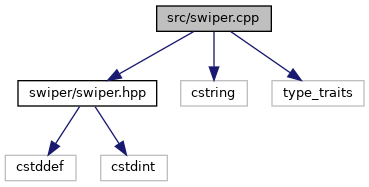
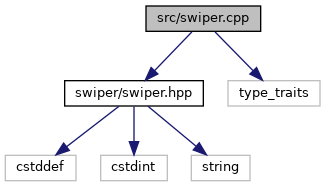
Travis build: 106
Commit: 7fe45ea2c4a1db68935e7285dab35b147c060258

diff --git a/namespaceswiper.html b/namespaceswiper.html
@@ -73,22 +73,22 @@ $(function() {
 <table class="memberdecls">
 <tr class="heading"><td colspan="2"><h2 class="groupheader"><a name="func-members"></a>
 Functions</h2></td></tr>
-<tr class="memitem:a8665843a456e8c5704a5f38d2c628ecd"><td class="memItemLeft" align="right" valign="top">void&#160;</td><td class="memItemRight" valign="bottom"><a class="el" href="namespaceswiper.html#a8665843a456e8c5704a5f38d2c628ecd">Encrypt</a> (char *hash, size_t seed, const char *password) noexcept</td></tr>
-<tr class="memdesc:a8665843a456e8c5704a5f38d2c628ecd"><td class="mdescLeft">&#160;</td><td class="mdescRight">Encrypt produces Cisco IOS^tm type 7 hashes.  <a href="namespaceswiper.html#a8665843a456e8c5704a5f38d2c628ecd">More...</a><br /></td></tr>
-<tr class="separator:a8665843a456e8c5704a5f38d2c628ecd"><td class="memSeparator" colspan="2">&#160;</td></tr>
-<tr class="memitem:a5454b273ec2a80c65d11f67e398ae720"><td class="memItemLeft" align="right" valign="top">void&#160;</td><td class="memItemRight" valign="bottom"><a class="el" href="namespaceswiper.html#a5454b273ec2a80c65d11f67e398ae720">WarmCache</a> (char *password, const char *hash, int32_t n) noexcept</td></tr>
-<tr class="memdesc:a5454b273ec2a80c65d11f67e398ae720"><td class="mdescLeft">&#160;</td><td class="mdescRight">WarmCache accelerates successive <a class="el" href="namespaceswiper.html#a44449e9a1724cda79ba09564c58e259a">Decrypt</a> calls, by prepopulating the system cache.  <a href="namespaceswiper.html#a5454b273ec2a80c65d11f67e398ae720">More...</a><br /></td></tr>
-<tr class="separator:a5454b273ec2a80c65d11f67e398ae720"><td class="memSeparator" colspan="2">&#160;</td></tr>
-<tr class="memitem:a44449e9a1724cda79ba09564c58e259a"><td class="memItemLeft" align="right" valign="top">void&#160;</td><td class="memItemRight" valign="bottom"><a class="el" href="namespaceswiper.html#a44449e9a1724cda79ba09564c58e259a">Decrypt</a> (char *password, const char *hash) noexcept</td></tr>
-<tr class="memdesc:a44449e9a1724cda79ba09564c58e259a"><td class="mdescLeft">&#160;</td><td class="mdescRight">Decrypt reverses Cisco IOS type 7 hashes.  <a href="namespaceswiper.html#a44449e9a1724cda79ba09564c58e259a">More...</a><br /></td></tr>
-<tr class="separator:a44449e9a1724cda79ba09564c58e259a"><td class="memSeparator" colspan="2">&#160;</td></tr>
+<tr class="memitem:aa88ed8959701533f0dd0f4601c127deb"><td class="memItemLeft" align="right" valign="top">void&#160;</td><td class="memItemRight" valign="bottom"><a class="el" href="namespaceswiper.html#aa88ed8959701533f0dd0f4601c127deb">Encrypt</a> (std::string &amp;hash, size_t seed, const std::string &amp;password) noexcept</td></tr>
+<tr class="memdesc:aa88ed8959701533f0dd0f4601c127deb"><td class="mdescLeft">&#160;</td><td class="mdescRight">Encrypt produces Cisco IOS^tm type 7 hashes.  <a href="namespaceswiper.html#aa88ed8959701533f0dd0f4601c127deb">More...</a><br /></td></tr>
+<tr class="separator:aa88ed8959701533f0dd0f4601c127deb"><td class="memSeparator" colspan="2">&#160;</td></tr>
+<tr class="memitem:ae42fee18b8ceeef14c5410f67739b998"><td class="memItemLeft" align="right" valign="top">void&#160;</td><td class="memItemRight" valign="bottom"><a class="el" href="namespaceswiper.html#ae42fee18b8ceeef14c5410f67739b998">WarmCache</a> (std::string &amp;password, const std::string &amp;hash, int32_t n) noexcept</td></tr>
+<tr class="memdesc:ae42fee18b8ceeef14c5410f67739b998"><td class="mdescLeft">&#160;</td><td class="mdescRight">WarmCache accelerates successive <a class="el" href="namespaceswiper.html#a3938a62735238f8bf41714eb02570b98">Decrypt</a> calls, by prepopulating the system cache.  <a href="namespaceswiper.html#ae42fee18b8ceeef14c5410f67739b998">More...</a><br /></td></tr>
+<tr class="separator:ae42fee18b8ceeef14c5410f67739b998"><td class="memSeparator" colspan="2">&#160;</td></tr>
+<tr class="memitem:a3938a62735238f8bf41714eb02570b98"><td class="memItemLeft" align="right" valign="top">void&#160;</td><td class="memItemRight" valign="bottom"><a class="el" href="namespaceswiper.html#a3938a62735238f8bf41714eb02570b98">Decrypt</a> (std::string &amp;password, const std::string &amp;hash) noexcept</td></tr>
+<tr class="memdesc:a3938a62735238f8bf41714eb02570b98"><td class="mdescLeft">&#160;</td><td class="mdescRight">Decrypt reverses Cisco IOS type 7 hashes.  <a href="namespaceswiper.html#a3938a62735238f8bf41714eb02570b98">More...</a><br /></td></tr>
+<tr class="separator:a3938a62735238f8bf41714eb02570b98"><td class="memSeparator" colspan="2">&#160;</td></tr>
 </table>
 <a name="details" id="details"></a><h2 class="groupheader">Detailed Description</h2>
 <div class="textblock"><p>swiper manages legacy Cisco IOS^tm type 7 passwords. </p>
 <dl class="section copyright"><dt>Copyright</dt><dd>2020 YelloSoft </dd></dl>
 </div><h2 class="groupheader">Function Documentation</h2>
-<a id="a44449e9a1724cda79ba09564c58e259a"></a>
-<h2 class="memtitle"><span class="permalink"><a href="#a44449e9a1724cda79ba09564c58e259a">&#9670;&nbsp;</a></span>Decrypt()</h2>
+<a id="a3938a62735238f8bf41714eb02570b98"></a>
+<h2 class="memtitle"><span class="permalink"><a href="#a3938a62735238f8bf41714eb02570b98">&#9670;&nbsp;</a></span>Decrypt()</h2>
 
 <div class="memitem">
 <div class="memproto">
@@ -99,13 +99,13 @@ Functions</h2></td></tr>
         <tr>
           <td class="memname">void swiper::Decrypt </td>
           <td>(</td>
-          <td class="paramtype">char *&#160;</td>
+          <td class="paramtype">std::string &amp;&#160;</td>
           <td class="paramname"><em>password</em>, </td>
         </tr>
         <tr>
           <td class="paramkey"></td>
           <td></td>
-          <td class="paramtype">const char *&#160;</td>
+          <td class="paramtype">const std::string &amp;&#160;</td>
           <td class="paramname"><em>hash</em>&#160;</td>
         </tr>
         <tr>
@@ -123,19 +123,19 @@ Functions</h2></td></tr>
 
 <p>Decrypt reverses Cisco IOS type 7 hashes. </p>
 <p>Hexadecimal data is lowercase.</p>
-<p>Warning: Omits null terminator, to be placed at password[strlen(hash)/2 - 1].</p>
 <dl class="params"><dt>Parameters</dt><dd>
   <table class="params">
-    <tr><td class="paramname">password</td><td>max 11 characters + null terminator </td></tr>
+    <tr><td class="paramname">password</td><td>(hash length / 2 - 1 characters) </td></tr>
     <tr><td class="paramname">hash</td><td>Cisco IOS^tm type 7 (lowercase) </td></tr>
   </table>
   </dd>
 </dl>
+<dl class="section return"><dt>Returns</dt><dd>password </dd></dl>
 
 </div>
 </div>
-<a id="a8665843a456e8c5704a5f38d2c628ecd"></a>
-<h2 class="memtitle"><span class="permalink"><a href="#a8665843a456e8c5704a5f38d2c628ecd">&#9670;&nbsp;</a></span>Encrypt()</h2>
+<a id="aa88ed8959701533f0dd0f4601c127deb"></a>
+<h2 class="memtitle"><span class="permalink"><a href="#aa88ed8959701533f0dd0f4601c127deb">&#9670;&nbsp;</a></span>Encrypt()</h2>
 
 <div class="memitem">
 <div class="memproto">
@@ -146,7 +146,7 @@ Functions</h2></td></tr>
         <tr>
           <td class="memname">void swiper::Encrypt </td>
           <td>(</td>
-          <td class="paramtype">char *&#160;</td>
+          <td class="paramtype">std::string &amp;&#160;</td>
           <td class="paramname"><em>hash</em>, </td>
         </tr>
         <tr>
@@ -158,7 +158,7 @@ Functions</h2></td></tr>
         <tr>
           <td class="paramkey"></td>
           <td></td>
-          <td class="paramtype">const char *&#160;</td>
+          <td class="paramtype">const std::string &amp;&#160;</td>
           <td class="paramname"><em>password</em>&#160;</td>
         </tr>
         <tr>
@@ -176,10 +176,9 @@ Functions</h2></td></tr>
 
 <p>Encrypt produces Cisco IOS^tm type 7 hashes. </p>
 <p>Truncates to the first 11 characters.</p>
-<p>Warning: Omits null terminator, to be placed at hash[2 * (1 + strlen(password))].</p>
 <dl class="params"><dt>Parameters</dt><dd>
   <table class="params">
-    <tr><td class="paramname">hash</td><td>max 24 characters + null terminator </td></tr>
+    <tr><td class="paramname">hash</td><td>buffer (2 * (1 + password length) characters) </td></tr>
     <tr><td class="paramname">seed</td><td>random seed in [0, 16) </td></tr>
     <tr><td class="paramname">password</td><td>plaintext ASCII </td></tr>
   </table>
@@ -188,8 +187,8 @@ Functions</h2></td></tr>
 
 </div>
 </div>
-<a id="a5454b273ec2a80c65d11f67e398ae720"></a>
-<h2 class="memtitle"><span class="permalink"><a href="#a5454b273ec2a80c65d11f67e398ae720">&#9670;&nbsp;</a></span>WarmCache()</h2>
+<a id="ae42fee18b8ceeef14c5410f67739b998"></a>
+<h2 class="memtitle"><span class="permalink"><a href="#ae42fee18b8ceeef14c5410f67739b998">&#9670;&nbsp;</a></span>WarmCache()</h2>
 
 <div class="memitem">
 <div class="memproto">
@@ -200,13 +199,13 @@ Functions</h2></td></tr>
         <tr>
           <td class="memname">void swiper::WarmCache </td>
           <td>(</td>
-          <td class="paramtype">char *&#160;</td>
+          <td class="paramtype">std::string &amp;&#160;</td>
           <td class="paramname"><em>password</em>, </td>
         </tr>
         <tr>
           <td class="paramkey"></td>
           <td></td>
-          <td class="paramtype">const char *&#160;</td>
+          <td class="paramtype">const std::string &amp;&#160;</td>
           <td class="paramname"><em>hash</em>, </td>
         </tr>
         <tr>
@@ -228,10 +227,10 @@ Functions</h2></td></tr>
 </table>
 </div><div class="memdoc">
 
-<p>WarmCache accelerates successive <a class="el" href="namespaceswiper.html#a44449e9a1724cda79ba09564c58e259a">Decrypt</a> calls, by prepopulating the system cache. </p>
+<p>WarmCache accelerates successive <a class="el" href="namespaceswiper.html#a3938a62735238f8bf41714eb02570b98">Decrypt</a> calls, by prepopulating the system cache. </p>
 <dl class="params"><dt>Parameters</dt><dd>
   <table class="params">
-    <tr><td class="paramname">password</td><td>max 11 characters + null terminator </td></tr>
+    <tr><td class="paramname">password</td><td>(hash length / 2 - 1 characters) </td></tr>
     <tr><td class="paramname">hash</td><td>Cisco IOS^tm type 7 </td></tr>
     <tr><td class="paramname">n</td><td>iterations (non-negative) </td></tr>
   </table>

diff --git a/swiper_8hpp_source.html b/swiper_8hpp_source.html
@@ -73,19 +73,20 @@ $(function() {
 <div class="line"><a name="l00002"></a><span class="lineno">    2</span>&#160; </div>
 <div class="line"><a name="l00010"></a><span class="lineno">   10</span>&#160;<span class="preprocessor">#include &lt;cstddef&gt;</span></div>
 <div class="line"><a name="l00011"></a><span class="lineno">   11</span>&#160;<span class="preprocessor">#include &lt;cstdint&gt;</span></div>
-<div class="line"><a name="l00012"></a><span class="lineno">   12</span>&#160; </div>
-<div class="line"><a name="l00016"></a><span class="lineno"><a class="line" href="namespaceswiper.html">   16</a></span>&#160;<span class="keyword">namespace </span><a class="code" href="namespaceswiper.html">swiper</a> {</div>
-<div class="line"><a name="l00028"></a><span class="lineno">   28</span>&#160;    <span class="keywordtype">void</span> <a class="code" href="namespaceswiper.html#a8665843a456e8c5704a5f38d2c628ecd">Encrypt</a>(<span class="keywordtype">char</span> *hash, <span class="keywordtype">size_t</span> seed, <span class="keyword">const</span> <span class="keywordtype">char</span> *password) noexcept;</div>
-<div class="line"><a name="l00029"></a><span class="lineno">   29</span>&#160; </div>
-<div class="line"><a name="l00038"></a><span class="lineno">   38</span>&#160;    <span class="keywordtype">void</span> <a class="code" href="namespaceswiper.html#a5454b273ec2a80c65d11f67e398ae720">WarmCache</a>(<span class="keywordtype">char</span> *password, <span class="keyword">const</span> <span class="keywordtype">char</span> *hash, int32_t n) noexcept;</div>
-<div class="line"><a name="l00039"></a><span class="lineno">   39</span>&#160; </div>
-<div class="line"><a name="l00051"></a><span class="lineno">   51</span>&#160;    <span class="keywordtype">void</span> <a class="code" href="namespaceswiper.html#a44449e9a1724cda79ba09564c58e259a">Decrypt</a>(<span class="keywordtype">char</span> *password, <span class="keyword">const</span> <span class="keywordtype">char</span> *hash) noexcept;</div>
-<div class="line"><a name="l00052"></a><span class="lineno">   52</span>&#160;}</div>
+<div class="line"><a name="l00012"></a><span class="lineno">   12</span>&#160;<span class="preprocessor">#include &lt;string&gt;</span></div>
+<div class="line"><a name="l00013"></a><span class="lineno">   13</span>&#160; </div>
+<div class="line"><a name="l00017"></a><span class="lineno"><a class="line" href="namespaceswiper.html">   17</a></span>&#160;<span class="keyword">namespace </span><a class="code" href="namespaceswiper.html">swiper</a> {</div>
+<div class="line"><a name="l00027"></a><span class="lineno">   27</span>&#160;    <span class="keywordtype">void</span> <a class="code" href="namespaceswiper.html#aa88ed8959701533f0dd0f4601c127deb">Encrypt</a>(std::string&amp; hash, <span class="keywordtype">size_t</span> seed, <span class="keyword">const</span> std::string&amp; password) noexcept;</div>
+<div class="line"><a name="l00028"></a><span class="lineno">   28</span>&#160; </div>
+<div class="line"><a name="l00037"></a><span class="lineno">   37</span>&#160;    <span class="keywordtype">void</span> <a class="code" href="namespaceswiper.html#ae42fee18b8ceeef14c5410f67739b998">WarmCache</a>(std::string&amp; password, <span class="keyword">const</span> std::string&amp; hash, int32_t n) noexcept;</div>
+<div class="line"><a name="l00038"></a><span class="lineno">   38</span>&#160; </div>
+<div class="line"><a name="l00049"></a><span class="lineno">   49</span>&#160;    <span class="keywordtype">void</span> <a class="code" href="namespaceswiper.html#a3938a62735238f8bf41714eb02570b98">Decrypt</a>(std::string&amp; password, <span class="keyword">const</span> std::string&amp; hash) noexcept;</div>
+<div class="line"><a name="l00050"></a><span class="lineno">   50</span>&#160;}</div>
 </div><!-- fragment --></div><!-- contents -->
-<div class="ttc" id="anamespaceswiper_html_a8665843a456e8c5704a5f38d2c628ecd"><div class="ttname"><a href="namespaceswiper.html#a8665843a456e8c5704a5f38d2c628ecd">swiper::Encrypt</a></div><div class="ttdeci">void Encrypt(char *hash, size_t seed, const char *password) noexcept</div><div class="ttdoc">Encrypt produces Cisco IOS^tm type 7 hashes.</div><div class="ttdef"><b>Definition:</b> swiper.cpp:58</div></div>
-<div class="ttc" id="anamespaceswiper_html"><div class="ttname"><a href="namespaceswiper.html">swiper</a></div><div class="ttdoc">swiper manages legacy Cisco IOS^tm type 7 passwords.</div><div class="ttdef"><b>Definition:</b> swiper.hpp:16</div></div>
-<div class="ttc" id="anamespaceswiper_html_a44449e9a1724cda79ba09564c58e259a"><div class="ttname"><a href="namespaceswiper.html#a44449e9a1724cda79ba09564c58e259a">swiper::Decrypt</a></div><div class="ttdeci">void Decrypt(char *password, const char *hash) noexcept</div><div class="ttdoc">Decrypt reverses Cisco IOS type 7 hashes.</div><div class="ttdef"><b>Definition:</b> swiper.cpp:79</div></div>
-<div class="ttc" id="anamespaceswiper_html_a5454b273ec2a80c65d11f67e398ae720"><div class="ttname"><a href="namespaceswiper.html#a5454b273ec2a80c65d11f67e398ae720">swiper::WarmCache</a></div><div class="ttdeci">void WarmCache(char *password, const char *hash, int32_t n) noexcept</div><div class="ttdoc">WarmCache accelerates successive Decrypt calls, by prepopulating the system cache.</div><div class="ttdef"><b>Definition:</b> swiper.cpp:72</div></div>
+<div class="ttc" id="anamespaceswiper_html"><div class="ttname"><a href="namespaceswiper.html">swiper</a></div><div class="ttdoc">swiper manages legacy Cisco IOS^tm type 7 passwords.</div><div class="ttdef"><b>Definition:</b> swiper.hpp:17</div></div>
+<div class="ttc" id="anamespaceswiper_html_a3938a62735238f8bf41714eb02570b98"><div class="ttname"><a href="namespaceswiper.html#a3938a62735238f8bf41714eb02570b98">swiper::Decrypt</a></div><div class="ttdeci">void Decrypt(std::string &amp;password, const std::string &amp;hash) noexcept</div><div class="ttdoc">Decrypt reverses Cisco IOS type 7 hashes.</div><div class="ttdef"><b>Definition:</b> swiper.cpp:79</div></div>
+<div class="ttc" id="anamespaceswiper_html_ae42fee18b8ceeef14c5410f67739b998"><div class="ttname"><a href="namespaceswiper.html#ae42fee18b8ceeef14c5410f67739b998">swiper::WarmCache</a></div><div class="ttdeci">void WarmCache(std::string &amp;password, const std::string &amp;hash, int32_t n) noexcept</div><div class="ttdoc">WarmCache accelerates successive Decrypt calls, by prepopulating the system cache.</div><div class="ttdef"><b>Definition:</b> swiper.cpp:72</div></div>
+<div class="ttc" id="anamespaceswiper_html_aa88ed8959701533f0dd0f4601c127deb"><div class="ttname"><a href="namespaceswiper.html#aa88ed8959701533f0dd0f4601c127deb">swiper::Encrypt</a></div><div class="ttdeci">void Encrypt(std::string &amp;hash, size_t seed, const std::string &amp;password) noexcept</div><div class="ttdoc">Encrypt produces Cisco IOS^tm type 7 hashes.</div><div class="ttdef"><b>Definition:</b> swiper.cpp:57</div></div>
 <!-- start footer part -->
 <hr class="footer"/><address class="footer"><small>
 Generated by &#160;<a href="http://www.doxygen.org/index.html">

diff --git a/swiper_8cpp.html b/swiper_8cpp.html
@@ -73,19 +73,18 @@ $(function() {
 </div><!--header-->
 <div class="contents">
 <div class="textblock"><code>#include &quot;<a class="el" href="swiper_8hpp_source.html">swiper/swiper.hpp</a>&quot;</code><br />
-<code>#include &lt;cstring&gt;</code><br />
 <code>#include &lt;type_traits&gt;</code><br />
 </div><div class="textblock"><div class="dynheader">
 Include dependency graph for swiper.cpp:</div>
 <div class="dyncontent">
 <div class="center"><img src="swiper_8cpp__incl.png" border="0" usemap="#src_2swiper_8cpp" alt=""/></div>
 <map name="src_2swiper_8cpp" id="src_2swiper_8cpp">
-<area shape="rect" title=" " alt="" coords="157,5,271,32"/>
-<area shape="rect" href="swiper_8hpp.html" title=" " alt="" coords="18,80,157,107"/>
-<area shape="rect" title=" " alt="" coords="181,80,247,107"/>
-<area shape="rect" title=" " alt="" coords="272,80,364,107"/>
+<area shape="rect" title=" " alt="" coords="146,5,261,32"/>
+<area shape="rect" href="swiper_8hpp.html" title=" " alt="" coords="65,80,203,107"/>
+<area shape="rect" title=" " alt="" coords="228,80,320,107"/>
 <area shape="rect" title=" " alt="" coords="5,155,76,181"/>
 <area shape="rect" title=" " alt="" coords="101,155,167,181"/>
+<area shape="rect" title=" " alt="" coords="191,155,250,181"/>
 </map>
 </div>
 </div><table class="memberdecls">
@@ -97,15 +96,15 @@ Namespaces</h2></td></tr>
 </table><table class="memberdecls">
 <tr class="heading"><td colspan="2"><h2 class="groupheader"><a name="func-members"></a>
 Functions</h2></td></tr>
-<tr class="memitem:a8665843a456e8c5704a5f38d2c628ecd"><td class="memItemLeft" align="right" valign="top">void&#160;</td><td class="memItemRight" valign="bottom"><a class="el" href="namespaceswiper.html#a8665843a456e8c5704a5f38d2c628ecd">swiper::Encrypt</a> (char *hash, size_t seed, const char *password) noexcept</td></tr>
-<tr class="memdesc:a8665843a456e8c5704a5f38d2c628ecd"><td class="mdescLeft">&#160;</td><td class="mdescRight">Encrypt produces Cisco IOS^tm type 7 hashes.  <a href="namespaceswiper.html#a8665843a456e8c5704a5f38d2c628ecd">More...</a><br /></td></tr>
-<tr class="separator:a8665843a456e8c5704a5f38d2c628ecd"><td class="memSeparator" colspan="2">&#160;</td></tr>
-<tr class="memitem:a5454b273ec2a80c65d11f67e398ae720"><td class="memItemLeft" align="right" valign="top">void&#160;</td><td class="memItemRight" valign="bottom"><a class="el" href="namespaceswiper.html#a5454b273ec2a80c65d11f67e398ae720">swiper::WarmCache</a> (char *password, const char *hash, int32_t n) noexcept</td></tr>
-<tr class="memdesc:a5454b273ec2a80c65d11f67e398ae720"><td class="mdescLeft">&#160;</td><td class="mdescRight">WarmCache accelerates successive <a class="el" href="namespaceswiper.html#a44449e9a1724cda79ba09564c58e259a">Decrypt</a> calls, by prepopulating the system cache.  <a href="namespaceswiper.html#a5454b273ec2a80c65d11f67e398ae720">More...</a><br /></td></tr>
-<tr class="separator:a5454b273ec2a80c65d11f67e398ae720"><td class="memSeparator" colspan="2">&#160;</td></tr>
-<tr class="memitem:a44449e9a1724cda79ba09564c58e259a"><td class="memItemLeft" align="right" valign="top">void&#160;</td><td class="memItemRight" valign="bottom"><a class="el" href="namespaceswiper.html#a44449e9a1724cda79ba09564c58e259a">swiper::Decrypt</a> (char *password, const char *hash) noexcept</td></tr>
-<tr class="memdesc:a44449e9a1724cda79ba09564c58e259a"><td class="mdescLeft">&#160;</td><td class="mdescRight">Decrypt reverses Cisco IOS type 7 hashes.  <a href="namespaceswiper.html#a44449e9a1724cda79ba09564c58e259a">More...</a><br /></td></tr>
-<tr class="separator:a44449e9a1724cda79ba09564c58e259a"><td class="memSeparator" colspan="2">&#160;</td></tr>
+<tr class="memitem:aa88ed8959701533f0dd0f4601c127deb"><td class="memItemLeft" align="right" valign="top">void&#160;</td><td class="memItemRight" valign="bottom"><a class="el" href="namespaceswiper.html#aa88ed8959701533f0dd0f4601c127deb">swiper::Encrypt</a> (std::string &amp;hash, size_t seed, const std::string &amp;password) noexcept</td></tr>
+<tr class="memdesc:aa88ed8959701533f0dd0f4601c127deb"><td class="mdescLeft">&#160;</td><td class="mdescRight">Encrypt produces Cisco IOS^tm type 7 hashes.  <a href="namespaceswiper.html#aa88ed8959701533f0dd0f4601c127deb">More...</a><br /></td></tr>
+<tr class="separator:aa88ed8959701533f0dd0f4601c127deb"><td class="memSeparator" colspan="2">&#160;</td></tr>
+<tr class="memitem:ae42fee18b8ceeef14c5410f67739b998"><td class="memItemLeft" align="right" valign="top">void&#160;</td><td class="memItemRight" valign="bottom"><a class="el" href="namespaceswiper.html#ae42fee18b8ceeef14c5410f67739b998">swiper::WarmCache</a> (std::string &amp;password, const std::string &amp;hash, int32_t n) noexcept</td></tr>
+<tr class="memdesc:ae42fee18b8ceeef14c5410f67739b998"><td class="mdescLeft">&#160;</td><td class="mdescRight">WarmCache accelerates successive <a class="el" href="namespaceswiper.html#a3938a62735238f8bf41714eb02570b98">Decrypt</a> calls, by prepopulating the system cache.  <a href="namespaceswiper.html#ae42fee18b8ceeef14c5410f67739b998">More...</a><br /></td></tr>
+<tr class="separator:ae42fee18b8ceeef14c5410f67739b998"><td class="memSeparator" colspan="2">&#160;</td></tr>
+<tr class="memitem:a3938a62735238f8bf41714eb02570b98"><td class="memItemLeft" align="right" valign="top">void&#160;</td><td class="memItemRight" valign="bottom"><a class="el" href="namespaceswiper.html#a3938a62735238f8bf41714eb02570b98">swiper::Decrypt</a> (std::string &amp;password, const std::string &amp;hash) noexcept</td></tr>
+<tr class="memdesc:a3938a62735238f8bf41714eb02570b98"><td class="mdescLeft">&#160;</td><td class="mdescRight">Decrypt reverses Cisco IOS type 7 hashes.  <a href="namespaceswiper.html#a3938a62735238f8bf41714eb02570b98">More...</a><br /></td></tr>
+<tr class="separator:a3938a62735238f8bf41714eb02570b98"><td class="memSeparator" colspan="2">&#160;</td></tr>
 </table>
 </div><!-- contents -->
 <!-- start footer part -->

diff --git a/swiper_8hpp.html b/swiper_8hpp.html
@@ -74,14 +74,16 @@ $(function() {
 <div class="contents">
 <div class="textblock"><code>#include &lt;cstddef&gt;</code><br />
 <code>#include &lt;cstdint&gt;</code><br />
+<code>#include &lt;string&gt;</code><br />
 </div><div class="textblock"><div class="dynheader">
 Include dependency graph for swiper.hpp:</div>
 <div class="dyncontent">
 <div class="center"><img src="swiper_8hpp__incl.png" border="0" usemap="#include_2swiper_2swiper_8hpp" alt=""/></div>
 <map name="include_2swiper_2swiper_8hpp" id="include_2swiper_2swiper_8hpp">
-<area shape="rect" title=" " alt="" coords="5,5,196,32"/>
-<area shape="rect" title=" " alt="" coords="19,80,89,107"/>
-<area shape="rect" title=" " alt="" coords="114,80,181,107"/>
+<area shape="rect" title=" " alt="" coords="39,5,229,32"/>
+<area shape="rect" title=" " alt="" coords="5,80,76,107"/>
+<area shape="rect" title=" " alt="" coords="101,80,167,107"/>
+<area shape="rect" title=" " alt="" coords="191,80,250,107"/>
 </map>
 </div>
 </div><div class="textblock"><div class="dynheader">
@@ -105,15 +107,15 @@ Namespaces</h2></td></tr>
 </table><table class="memberdecls">
 <tr class="heading"><td colspan="2"><h2 class="groupheader"><a name="func-members"></a>
 Functions</h2></td></tr>
-<tr class="memitem:a8665843a456e8c5704a5f38d2c628ecd"><td class="memItemLeft" align="right" valign="top">void&#160;</td><td class="memItemRight" valign="bottom"><a class="el" href="namespaceswiper.html#a8665843a456e8c5704a5f38d2c628ecd">swiper::Encrypt</a> (char *hash, size_t seed, const char *password) noexcept</td></tr>
-<tr class="memdesc:a8665843a456e8c5704a5f38d2c628ecd"><td class="mdescLeft">&#160;</td><td class="mdescRight">Encrypt produces Cisco IOS^tm type 7 hashes.  <a href="namespaceswiper.html#a8665843a456e8c5704a5f38d2c628ecd">More...</a><br /></td></tr>
-<tr class="separator:a8665843a456e8c5704a5f38d2c628ecd"><td class="memSeparator" colspan="2">&#160;</td></tr>
-<tr class="memitem:a5454b273ec2a80c65d11f67e398ae720"><td class="memItemLeft" align="right" valign="top">void&#160;</td><td class="memItemRight" valign="bottom"><a class="el" href="namespaceswiper.html#a5454b273ec2a80c65d11f67e398ae720">swiper::WarmCache</a> (char *password, const char *hash, int32_t n) noexcept</td></tr>
-<tr class="memdesc:a5454b273ec2a80c65d11f67e398ae720"><td class="mdescLeft">&#160;</td><td class="mdescRight">WarmCache accelerates successive <a class="el" href="namespaceswiper.html#a44449e9a1724cda79ba09564c58e259a">Decrypt</a> calls, by prepopulating the system cache.  <a href="namespaceswiper.html#a5454b273ec2a80c65d11f67e398ae720">More...</a><br /></td></tr>
-<tr class="separator:a5454b273ec2a80c65d11f67e398ae720"><td class="memSeparator" colspan="2">&#160;</td></tr>
-<tr class="memitem:a44449e9a1724cda79ba09564c58e259a"><td class="memItemLeft" align="right" valign="top">void&#160;</td><td class="memItemRight" valign="bottom"><a class="el" href="namespaceswiper.html#a44449e9a1724cda79ba09564c58e259a">swiper::Decrypt</a> (char *password, const char *hash) noexcept</td></tr>
-<tr class="memdesc:a44449e9a1724cda79ba09564c58e259a"><td class="mdescLeft">&#160;</td><td class="mdescRight">Decrypt reverses Cisco IOS type 7 hashes.  <a href="namespaceswiper.html#a44449e9a1724cda79ba09564c58e259a">More...</a><br /></td></tr>
-<tr class="separator:a44449e9a1724cda79ba09564c58e259a"><td class="memSeparator" colspan="2">&#160;</td></tr>
+<tr class="memitem:aa88ed8959701533f0dd0f4601c127deb"><td class="memItemLeft" align="right" valign="top">void&#160;</td><td class="memItemRight" valign="bottom"><a class="el" href="namespaceswiper.html#aa88ed8959701533f0dd0f4601c127deb">swiper::Encrypt</a> (std::string &amp;hash, size_t seed, const std::string &amp;password) noexcept</td></tr>
+<tr class="memdesc:aa88ed8959701533f0dd0f4601c127deb"><td class="mdescLeft">&#160;</td><td class="mdescRight">Encrypt produces Cisco IOS^tm type 7 hashes.  <a href="namespaceswiper.html#aa88ed8959701533f0dd0f4601c127deb">More...</a><br /></td></tr>
+<tr class="separator:aa88ed8959701533f0dd0f4601c127deb"><td class="memSeparator" colspan="2">&#160;</td></tr>
+<tr class="memitem:ae42fee18b8ceeef14c5410f67739b998"><td class="memItemLeft" align="right" valign="top">void&#160;</td><td class="memItemRight" valign="bottom"><a class="el" href="namespaceswiper.html#ae42fee18b8ceeef14c5410f67739b998">swiper::WarmCache</a> (std::string &amp;password, const std::string &amp;hash, int32_t n) noexcept</td></tr>
+<tr class="memdesc:ae42fee18b8ceeef14c5410f67739b998"><td class="mdescLeft">&#160;</td><td class="mdescRight">WarmCache accelerates successive <a class="el" href="namespaceswiper.html#a3938a62735238f8bf41714eb02570b98">Decrypt</a> calls, by prepopulating the system cache.  <a href="namespaceswiper.html#ae42fee18b8ceeef14c5410f67739b998">More...</a><br /></td></tr>
+<tr class="separator:ae42fee18b8ceeef14c5410f67739b998"><td class="memSeparator" colspan="2">&#160;</td></tr>
+<tr class="memitem:a3938a62735238f8bf41714eb02570b98"><td class="memItemLeft" align="right" valign="top">void&#160;</td><td class="memItemRight" valign="bottom"><a class="el" href="namespaceswiper.html#a3938a62735238f8bf41714eb02570b98">swiper::Decrypt</a> (std::string &amp;password, const std::string &amp;hash) noexcept</td></tr>
+<tr class="memdesc:a3938a62735238f8bf41714eb02570b98"><td class="mdescLeft">&#160;</td><td class="mdescRight">Decrypt reverses Cisco IOS type 7 hashes.  <a href="namespaceswiper.html#a3938a62735238f8bf41714eb02570b98">More...</a><br /></td></tr>
+<tr class="separator:a3938a62735238f8bf41714eb02570b98"><td class="memSeparator" colspan="2">&#160;</td></tr>
 </table>
 </div><!-- contents -->
 <!-- start footer part -->

diff --git a/namespacemembers.html b/namespacemembers.html
@@ -63,13 +63,13 @@ $(function() {
 <div class="contents">
 <div class="textblock">Here is a list of all namespace members with links to the namespace documentation for each member:</div><ul>
 <li>Decrypt()
-: <a class="el" href="namespaceswiper.html#a44449e9a1724cda79ba09564c58e259a">swiper</a>
+: <a class="el" href="namespaceswiper.html#a3938a62735238f8bf41714eb02570b98">swiper</a>
 </li>
 <li>Encrypt()
-: <a class="el" href="namespaceswiper.html#a8665843a456e8c5704a5f38d2c628ecd">swiper</a>
+: <a class="el" href="namespaceswiper.html#aa88ed8959701533f0dd0f4601c127deb">swiper</a>
 </li>
 <li>WarmCache()
-: <a class="el" href="namespaceswiper.html#a5454b273ec2a80c65d11f67e398ae720">swiper</a>
+: <a class="el" href="namespaceswiper.html#ae42fee18b8ceeef14c5410f67739b998">swiper</a>
 </li>
 </ul>
 </div><!-- contents -->

diff --git a/namespacemembers_func.html b/namespacemembers_func.html
@@ -63,13 +63,13 @@ $(function() {
 <div class="contents">
 &#160;<ul>
 <li>Decrypt()
-: <a class="el" href="namespaceswiper.html#a44449e9a1724cda79ba09564c58e259a">swiper</a>
+: <a class="el" href="namespaceswiper.html#a3938a62735238f8bf41714eb02570b98">swiper</a>
 </li>
 <li>Encrypt()
-: <a class="el" href="namespaceswiper.html#a8665843a456e8c5704a5f38d2c628ecd">swiper</a>
+: <a class="el" href="namespaceswiper.html#aa88ed8959701533f0dd0f4601c127deb">swiper</a>
 </li>
 <li>WarmCache()
-: <a class="el" href="namespaceswiper.html#a5454b273ec2a80c65d11f67e398ae720">swiper</a>
+: <a class="el" href="namespaceswiper.html#ae42fee18b8ceeef14c5410f67739b998">swiper</a>
 </li>
 </ul>
 </div><!-- contents -->

diff --git a/main_8cpp.html b/main_8cpp.html
@@ -85,8 +85,9 @@ Include dependency graph for main.cpp:</div>
 <area shape="rect" title=" " alt="" coords="112,95,181,121"/>
 <area shape="rect" title=" " alt="" coords="205,95,272,121"/>
 <area shape="rect" href="swiper_8hpp.html" title=" " alt="" coords="296,95,435,121"/>
-<area shape="rect" title=" " alt="" coords="283,169,354,196"/>
-<area shape="rect" title=" " alt="" coords="379,169,445,196"/>
+<area shape="rect" title=" " alt="" coords="237,169,307,196"/>
+<area shape="rect" title=" " alt="" coords="332,169,399,196"/>
+<area shape="rect" title=" " alt="" coords="423,169,481,196"/>
 </map>
 </div>
 </div><table class="memberdecls">

diff --git a/search/functions_3.js b/search/functions_3.js
@@ -1,4 +1,4 @@
 var searchData=
 [
-  ['warmcache_17',['WarmCache',['../namespaceswiper.html#a5454b273ec2a80c65d11f67e398ae720',1,'swiper']]]
+  ['warmcache_17',['WarmCache',['../namespaceswiper.html#ae42fee18b8ceeef14c5410f67739b998',1,'swiper']]]
 ];

diff --git a/search/all_4.js b/search/all_4.js
@@ -1,4 +1,4 @@
 var searchData=
 [
-  ['warmcache_8',['WarmCache',['../namespaceswiper.html#a5454b273ec2a80c65d11f67e398ae720',1,'swiper']]]
+  ['warmcache_8',['WarmCache',['../namespaceswiper.html#ae42fee18b8ceeef14c5410f67739b998',1,'swiper']]]
 ];

diff --git a/search/functions_0.js b/search/functions_0.js
@@ -1,4 +1,4 @@
 var searchData=
 [
-  ['decrypt_14',['Decrypt',['../namespaceswiper.html#a44449e9a1724cda79ba09564c58e259a',1,'swiper']]]
+  ['decrypt_14',['Decrypt',['../namespaceswiper.html#a3938a62735238f8bf41714eb02570b98',1,'swiper']]]
 ];

diff --git a/search/functions_1.js b/search/functions_1.js
@@ -1,4 +1,4 @@
 var searchData=
 [
-  ['encrypt_15',['Encrypt',['../namespaceswiper.html#a8665843a456e8c5704a5f38d2c628ecd',1,'swiper']]]
+  ['encrypt_15',['Encrypt',['../namespaceswiper.html#aa88ed8959701533f0dd0f4601c127deb',1,'swiper']]]
 ];

diff --git a/search/all_0.js b/search/all_0.js
@@ -1,4 +1,4 @@
 var searchData=
 [
-  ['decrypt_0',['Decrypt',['../namespaceswiper.html#a44449e9a1724cda79ba09564c58e259a',1,'swiper']]]
+  ['decrypt_0',['Decrypt',['../namespaceswiper.html#a3938a62735238f8bf41714eb02570b98',1,'swiper']]]
 ];
